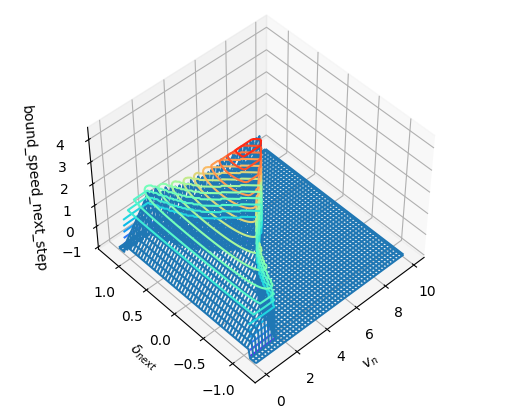
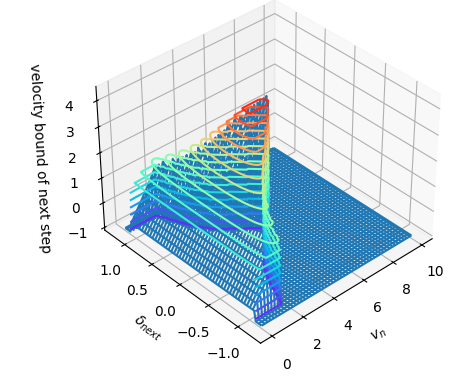
Fix images

diff --git a/src/safe_region.py b/src/safe_region.py
@@ -276,7 +276,7 @@ class SafeCar:
         ax.plot_wireframe(v_n_mesh, delta_next_mesh, bound_speed_next_step_mesh[1])
         ax.set_xlabel("$v_{n}$")
         ax.set_ylabel("$\delta_{\t{next}}$")
-        ax.set_zlabel("bound_speed_next_step")
+        ax.set_zlabel("velocity bound of next step")
 
         plt.show()
 

diff --git a/README.md b/README.md
@@ -53,6 +53,8 @@ $$v_m \leq v_{n+1} \leq v_M$$
 
 이는 `SafeCar.make_velo_bound_next_step()` 함수에 구현되어있다.
 
+![](./image/image2.png)
+
 ### 추가 논의
 그러나 위에서 논한 것 만으로는 조향각속도를 최대로 하는 조작에서 안전성을 보장할 수 없다. (최대한 빠르게 운전대를 돌리는 상황을 상상해보자.)
 
